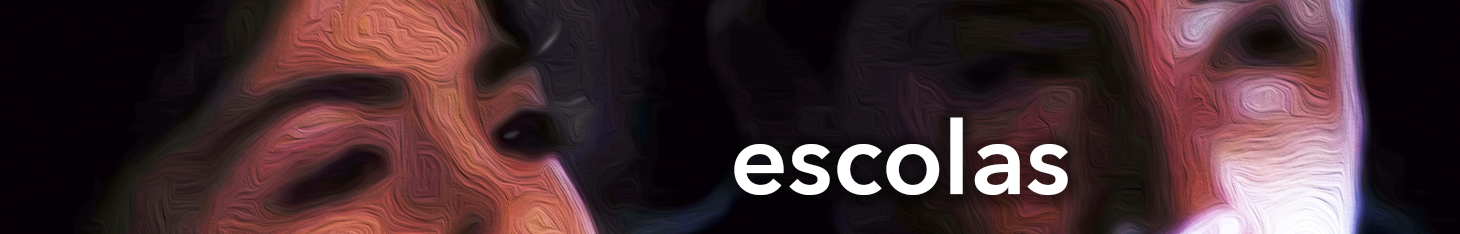
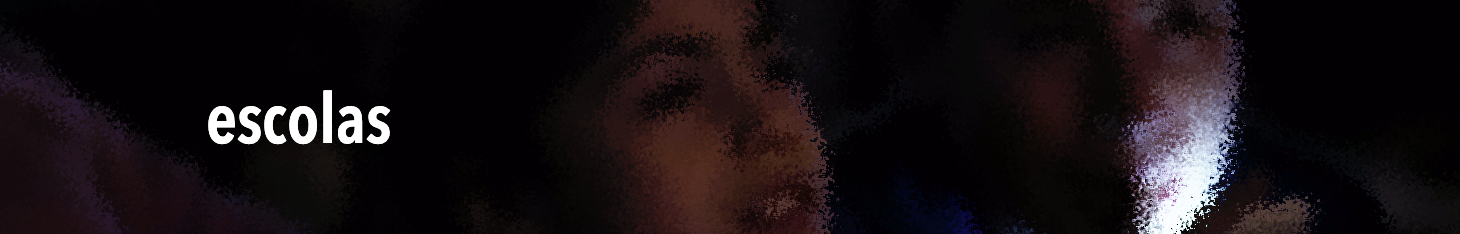
acertos visuais

diff --git a/src/app/home/home.component.html b/src/app/home/home.component.html
@@ -1,7 +1,7 @@
 <!-- Masthead -->
 
 <!-- Services -->
-<section class="text-white text-center bg-head" id="intro-carrousel">
+<section class="text-white text-center bg-head" id="intro-carrousel" style="margin-top: 120px;">
   <ngb-carousel
     [showNavigationArrows]="true"
     [showNavigationIndicators]="true"
@@ -18,7 +18,7 @@
           width=""
           alt="Random first slide"
           class="mh-100 img-fluid"
-          style="height: 50vh;"
+          
         />
       </div>
       <div class="carousel-caption">
@@ -29,11 +29,11 @@
     <ng-template ngbSlide>
       <div class="picsum-img-wrapper img-responsive">
         <img
-          src="../../assets/img/carrosel/conversaseentrevistas.png"
+          src="../../assets/img/carrosel/cineclubes.png"
           width=""
           alt="Random first slide"
           class="mh-100 img-fluid"
-          style="height: 50vh;"
+          
         />
       </div>
       <div class="carousel-caption">
@@ -44,11 +44,11 @@
     <ng-template ngbSlide>
       <div class="picsum-img-wrapper img-responsive">
         <img
-          src="../../assets/img/carrosel/producaoacademica.png"
+          src="../../assets/img/carrosel/cursos.png"
           width=""
           alt="Random first slide"
           class="mh-100 img-fluid"
-          style="height: 50vh;"
+          
         />
       </div>
       <div class="carousel-caption">
@@ -59,11 +59,11 @@
     <ng-template ngbSlide>
       <div class="picsum-img-wrapper img-responsive">
         <img
-          src="../../assets/img/carrosel/cinematecas.png"
+          src="../../assets/img/carrosel/entrevistas.png"
           width=""
           alt="Random first slide"
           class="mh-100 img-fluid"
-          style="height: 50vh;"
+          
         />
       </div>
       <div class="carousel-caption">
@@ -78,7 +78,7 @@
           width=""
           alt="Random first slide"
           class="mh-100 img-fluid"
-          style="height: 50vh;"
+          
         />
         <!-- <img src="../../assets/img/encontros.jpg" width="740px" alt="Random first slide" class="mh-100 img-fluid"
           style="height: 50vh">-->
@@ -91,11 +91,41 @@
     <ng-template ngbSlide>
       <div class="picsum-img-wrapper img-responsive">
         <img
+          src="../../assets/img/carrosel/podcasts.png"
+          width=""
+          alt="Random first slide"
+          class="mh-100 img-fluid"
+          
+        />
+      </div>
+      <div class="carousel-caption">
+        <!--  <h3>Politicas</h3>-->
+      </div>
+    </ng-template>
+
+    <ng-template ngbSlide>
+      <div class="picsum-img-wrapper img-responsive">
+        <img
           src="../../assets/img/carrosel/politicas.png"
           width=""
           alt="Random first slide"
           class="mh-100 img-fluid"
-          style="height: 50vh;"
+          
+        />
+      </div>
+      <div class="carousel-caption">
+        <!--  <h3>Politicas</h3>-->
+      </div>
+    </ng-template>
+
+    <ng-template ngbSlide>
+      <div class="picsum-img-wrapper img-responsive">
+        <img
+          src="../../assets/img/carrosel/producaoacademica.png"
+          width=""
+          alt="Random first slide"
+          class="mh-100 img-fluid"
+          
         />
       </div>
       <div class="carousel-caption">
@@ -311,51 +341,68 @@
       <h3 class="mb-0" style="color: #f4e9db;">COLABORAÇÕES RECENTES</h3>
       <h2 class="mb-5" style="color: white;">Últimas postagens feitas na plataforma</h2>
     </div>
-    <div class="row no-gutters">
-      <div class="col-lg-6">
-        <a class="portfolio-item" href="#">
-          <span class="caption">
-            <span class="caption-content">
-              <h2>Entrevista com ...</h2>
-              <p class="mb-0">Confira essa entrevista super construtiva</p>
-            </span>
-          </span>
-          <img class="img-fluid" src="../../assets/img/abecedario.jpg" alt="" />
-        </a>
-      </div>
-      <div class="col-lg-6">
-        <a class="portfolio-item" href="#">
-          <span class="caption">
-            <span class="caption-content">
-              <h2>podcast Avenida de Mayo 3</h2>
-              <p class="mb-0">Política, cinema, dicas e muito mais!</p>
-            </span>
-          </span>
-          <img class="img-fluid" src="../../assets/img/sound.jpg" alt="" />
-        </a>
-      </div>
-      <div class="col-lg-6">
-        <a class="portfolio-item" href="#">
-          <span class="caption">
-            <span class="caption-content">
-              <h2>Prodção Acadêmica Articulo dussel cine y educacion copia</h2>
-              <p class="mb-0">O artigo examina os vínculos entre o cinema e a escola</p>
-            </span>
-          </span>
-          <img class="img-fluid" src="../../assets/img/graduation.jpg" alt="" />
-        </a>
-      </div>
-      <div class="col-lg-6">
-        <a class="portfolio-item" href="#">
-          <span class="caption">
-            <span class="caption-content">
-              <h2>Gabriela Agustowsky</h2>
-              <p class="mb-0">Conheça mais dos projetos Animate e Animar.</p>
-            </span>
-          </span>
-          <img class="img-fluid" src="../../assets/img/sound.jpg" alt="" />
-        </a>
-      </div>
+    <div class="row no-gutters" style="padding: 18px;">
+      <ngb-carousel
+      [showNavigationArrows]="true"
+      [showNavigationIndicators]="true"
+      interval="10000"
+      [keyboard]="true"
+      [pauseOnHover]="true"
+      [wrap]="true"
+      [activeId]="'slideTwo'"
+
+      style="text-align: center;
+      margin: auto;
+      width: 100%;
+">
+      <ng-template ngbSlide style="text-align: center;
+      margin: auto;
+      width: 50%;
+">
+        <h1>Abecedário de Inês Girgel</h1>
+        <h3>Local: estrada</h3>
+        <h3 style="margin-bottom: 50px;">
+          Categoria: Abecedário
+        </h3>
+      </ng-template>
+
+      <ng-template ngbSlide style="text-align: center;
+      margin: auto;
+      width: 50%;
+">
+        <h1>Marta Cardoso Guedes</h1>
+        <h3>Local: estrada</h3>
+        <h3 style="margin-bottom: 50px;">Categoria: Escola</h3>
+      </ng-template>
+
+      <ng-template ngbSlide style="text-align: center;
+      margin: auto;
+      width: 50%;
+">
+        <h1>Entrevista com Raúl Miranda</h1>
+        <h3>Local: estrada</h3>
+        <h3 style="margin-bottom: 50px;">Categoria: México</h3>
+      </ng-template>
+
+      <ng-template ngbSlide style="text-align: center;
+      margin: auto;
+      width: 50%;
+">
+        <h1>Abecedário de Virgínia Kastrup: cartografias da invenção</h1>
+        <h3>Local: estrada</h3>
+        <h3 style="margin-bottom: 50px;">Categoria: Abecedário</h3>
+      </ng-template>
+
+      <ng-template ngbSlide style="text-align: center;
+      margin: auto;
+      width: 50%;
+">
+        <h1>TESE DE DOUTORADO: A PRODUÇÃO DE PRESENÇA NEGRA NA FORMAÇÃO DE PROFESSORES PELOS OLHARES DECOLONIAIS DA CINEMATOGRAFIA DE ZÓZIMO BULBUL</h1>
+        <h3>Local: estrada</h3>
+        <h3 style="margin-bottom: 50px;">Categoria: Abecedário</h3>
+      </ng-template>
+  
+    </ngb-carousel>
     </div>
   </div>
 </section>
@@ -446,16 +493,3 @@
   </div>
 </section>-->
 
-<ng-template id="template" #template>
-  <div class="modal-header">
-    <h4 class="modal-title pull-left">Em construção</h4>
-    <button type="button" class="close pull-right" aria-label="Close" (click)="modalRef.hide()">
-      <span aria-hidden="true">&times;</span>
-    </button>
-  </div>
-  <div class="modal-body">
-    Aguardando Financimento...
-    <br />
-    <img src="../assets/img/aguardandoFinanciamento.jpg" class="img-fluid capa-livro" />
-  </div>
-</ng-template>

diff --git a/src/index.html b/src/index.html
@@ -9,14 +9,14 @@
   <base href="/">
 
   <meta name="viewport" content="width=device-width, initial-scale=1">
-  <link rel="icon" type="image/x-icon" href="favicon.png">
+  <link rel="icon" type="image/png" href="favicon.png">
   <link href="https://fonts.googleapis.com/icon?family=Material+Icons" rel="stylesheet">
   <link
     href="https://fonts.googleapis.com/css?family=Exo:100,100i,200,200i,300,300i,400,400i,500,500i,600,600i,700,700i,800,800i,900,900i"
     rel="stylesheet">
 </head>
 
-<body style="background-color: #435f76;">
+<body style="background-color: #FFFFFF;">
   <app-root></app-root>
 </body>
 

diff --git a/src/app/home/home.component.scss b/src/app/home/home.component.scss
@@ -21,7 +21,7 @@
 }
 
 .bg-head {
-  background-color: #435F76!important;
+  background-color: #000!important;
   margin-top: 80px;
 }
 
@@ -43,7 +43,7 @@
 .content-section {
   padding-top: 7.5rem;
   padding-bottom: 7.5rem;
-  background-color: #435F76 !important;
+  background-color: #000 !important;
 }
 
 .content-section-heading h2 {
@@ -188,7 +188,6 @@
 
 .picsum-img-wrapper{
   margin:auto;
-  height:360px;
   text-align: center;
 }
 

diff --git a/server/controllers/point.controller.js b/server/controllers/point.controller.js
@@ -87,6 +87,7 @@ async function getContentOfPoint(req) {
 async function getPointsByCategoria(req) {
   switch (Number(req.params.categoriaId)) {
     case 1:
+      
       return await Points.find({
          /*   'location.coordinates': {
           $near: {
@@ -98,6 +99,7 @@ async function getPointsByCategoria(req) {
             }
           }
         }*/
+        
         abecedarios: {
           $gt: []
         }
